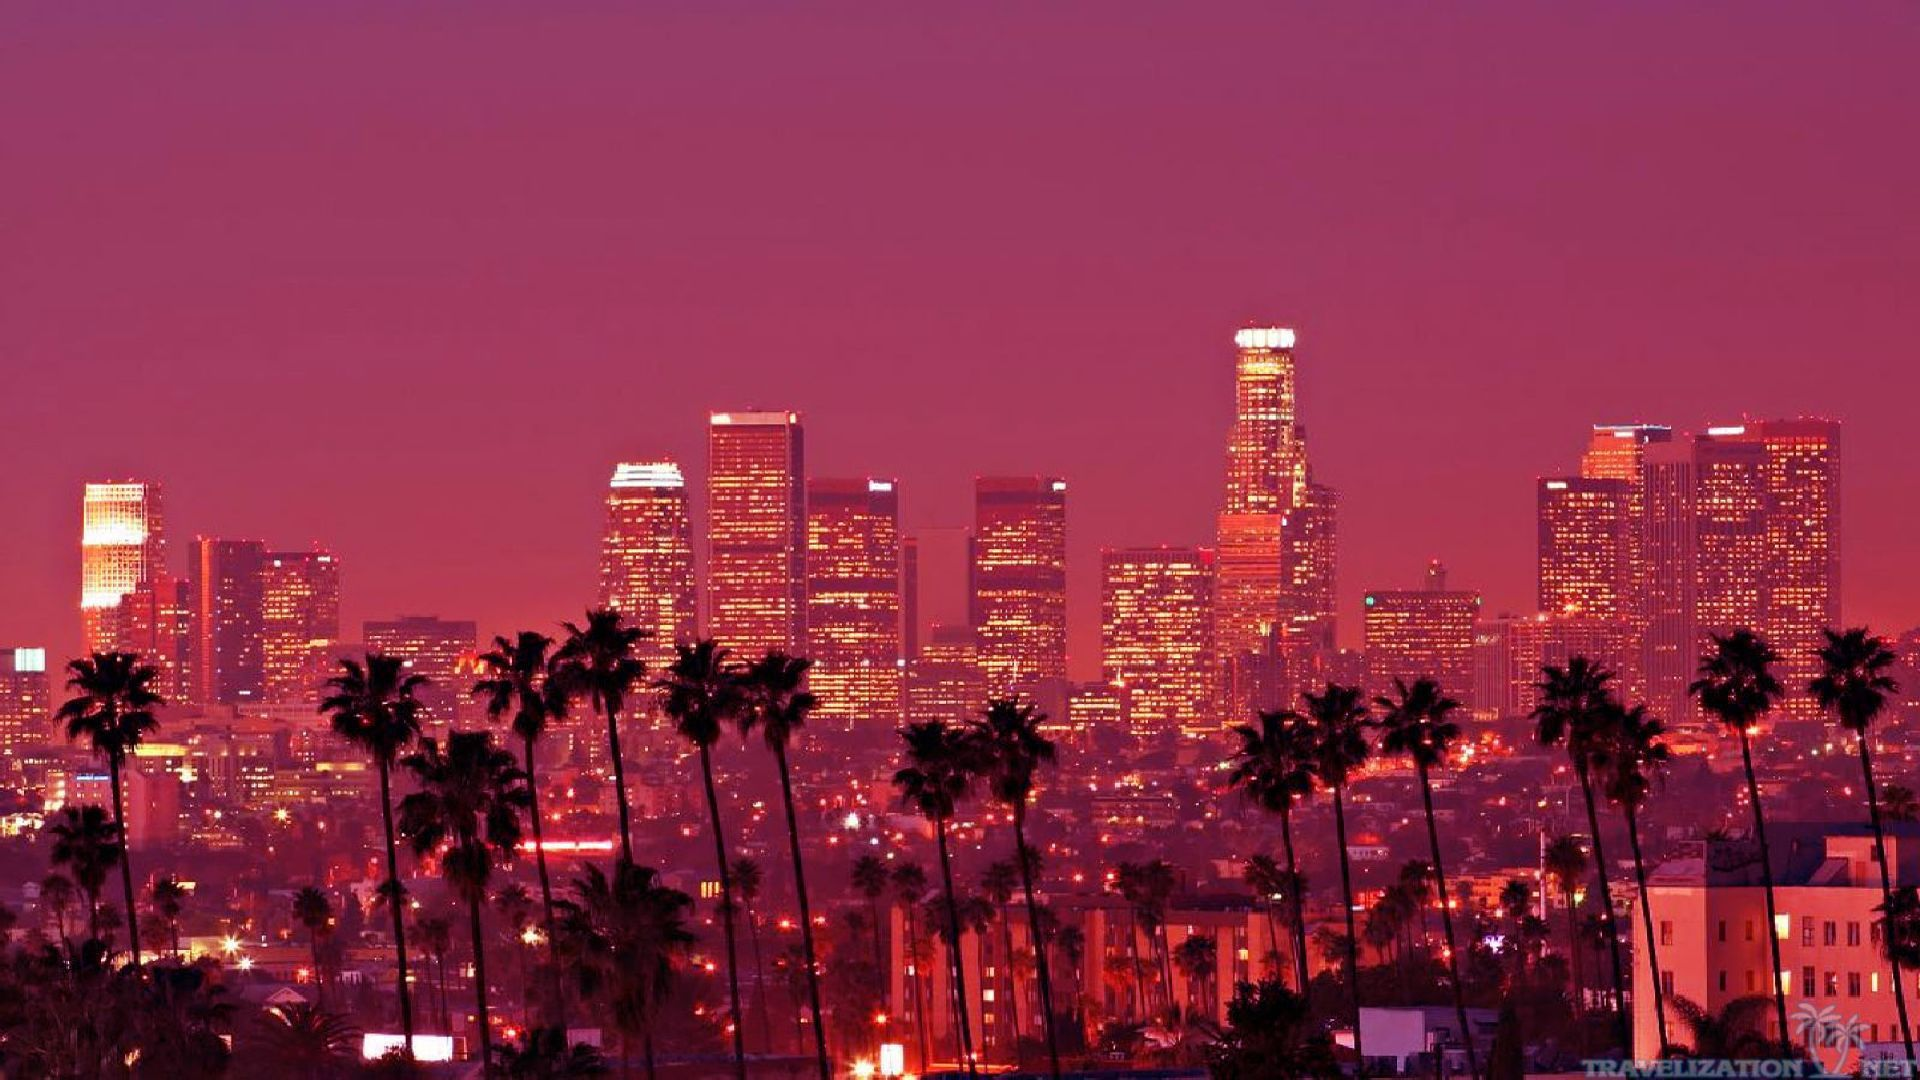
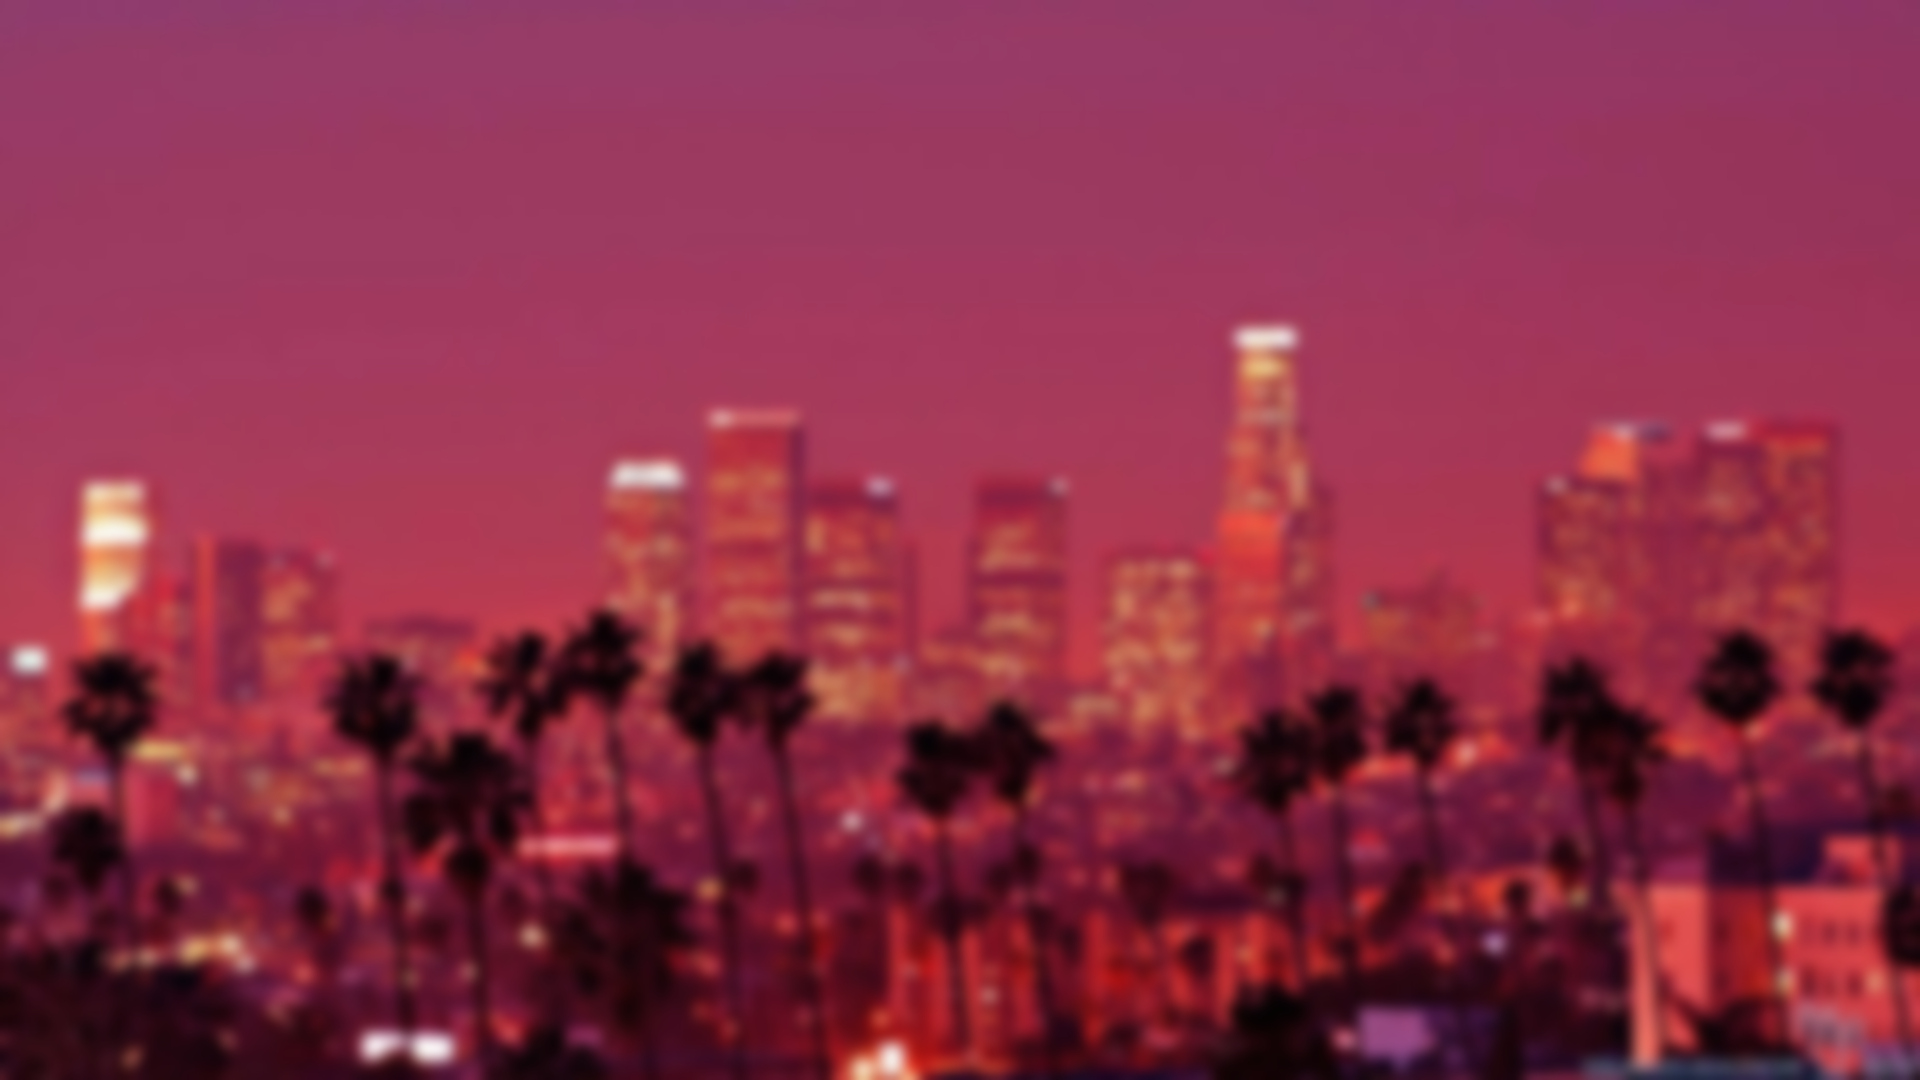
updated bootstrap version, changed upload button

Changed region(s): [[0.0, 0.275, 1.0, 1.0], [0.0938, 0.9472, 0.125, 0.9778], [0.0625, 0.9778, 0.0938, 1.0]]

diff --git a/spa/fileshare/public/index.html b/spa/fileshare/public/index.html
@@ -1,16 +1,14 @@
 <!DOCTYPE html>
 <html lang="en">
   <head>
-    <!-- Latest compiled and minified CSS -->
-    <link rel="stylesheet" href="https://maxcdn.bootstrapcdn.com/bootstrap/3.3.7/css/bootstrap.min.css" integrity="sha384-BVYiiSIFeK1dGmJRAkycuHAHRg32OmUcww7on3RYdg4Va+PmSTsz/K68vbdEjh4u" crossorigin="anonymous">
-
-    <!-- Optional theme -->
-    <link rel="stylesheet" href="https://maxcdn.bootstrapcdn.com/bootstrap/3.3.7/css/bootstrap-theme.min.css" integrity="sha384-rHyoN1iRsVXV4nD0JutlnGaslCJuC7uwjduW9SVrLvRYooPp2bWYgmgJQIXwl/Sp" crossorigin="anonymous">
+    <link rel="stylesheet" href="https://stackpath.bootstrapcdn.com/bootstrap/4.2.1/css/bootstrap.min.css" integrity="sha384-GJzZqFGwb1QTTN6wy59ffF1BuGJpLSa9DkKMp0DgiMDm4iYMj70gZWKYbI706tWS" crossorigin="anonymous">
     <div id="root"></div>
 
     <meta charset="utf-8">
     <meta name="viewport" content="width=device-width, initial-scale=1, shrink-to-fit=no">
     <meta name="theme-color" content="#000000">
+
+    <link rel="stylesheet" href="https://use.fontawesome.com/releases/v5.7.0/css/all.css" integrity="sha384-lZN37f5QGtY3VHgisS14W3ExzMWZxybE1SJSEsQp9S+oqd12jhcu+A56Ebc1zFSJ" crossorigin="anonymous">
     <!--
       manifest.json provides metadata used when your web app is added to the
       homescreen on Android. See https://developers.google.com/web/fundamentals/engage-and-retain/web-app-manifest/

diff --git a/spa/fileshare/src/modules/MainModule/components/SignInComponent.jsx b/spa/fileshare/src/modules/MainModule/components/SignInComponent.jsx
@@ -5,6 +5,8 @@ import classNames from "classnames";
 
 import alignment from "./css/SignInComponent.module.css";
 
+import styled from "styled-components";
+
 export default class SignInComponent extends Component {
   constructor(props) {
     super(props);
@@ -51,11 +53,18 @@ export default class SignInComponent extends Component {
               placeholder="Enter text"
             />
           </div>
-          <div className={alignment.background}>
-          </div>
+          <div className={alignment.background} />
           <div className={alignment.content}>
-              <div className={alignment.test}>
-              esse???</div>
+            <label
+              className='btn btn-primary btn-file'
+            >
+              <input
+                type="file"
+                className={alignment.input_file_upload}
+              />
+              <i class="fa fa-cloud-upload" />
+              Upload file
+            </label>
           </div>
         </body>
       </html>

diff --git a/spa/fileshare/src/modules/MainModule/components/css/SignInComponent.module.css b/spa/fileshare/src/modules/MainModule/components/css/SignInComponent.module.css
@@ -15,16 +15,17 @@ body {
 
 .background {
     min-height: 95vh;
+    min-width: 100%;
     background-image: url(../../../../media/mainbackground.jpg);
-    filter: blur(4px);
-    -webkit-filter: blur(4px);
-    margin:0;
-    padding:0;
+    position: absolute;
+    background-size: cover;
 }
 
 .content {
     width: 100%;
+    min-height: 95vh;
     display: flex;
+    flex-direction: column;
     align-items: center;
     justify-content: center;
     position: absolute;
@@ -49,6 +50,8 @@ body {
 
 /* buttons */
 
+/* header */
+
 .button {
     color: #D6E7ED;
 }
@@ -72,12 +75,26 @@ body {
     margin-left: 2%;
 }
 
+/* content */
+
+.upload_button {
+
+}
+
 /* logo */
 
 .header_logo {
     color: #D6E7ED;
     font-size: 21px;
 }
+
+/* various controls */
+
+.input_file_upload {
+    display: none !important;
+}
+
+/* header */
 
 .header_search {
     margin-left: 5%;
